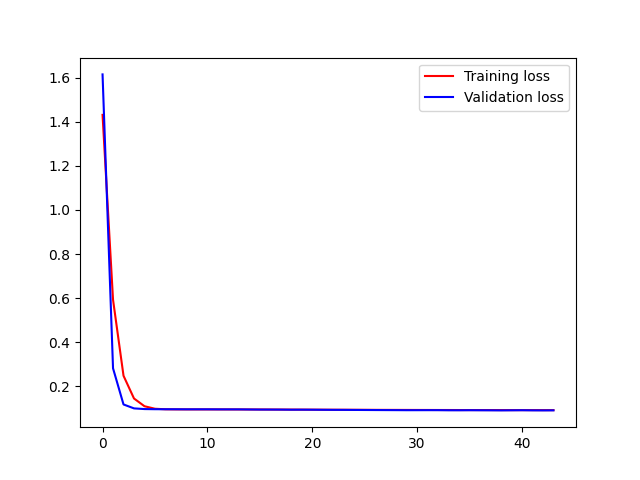
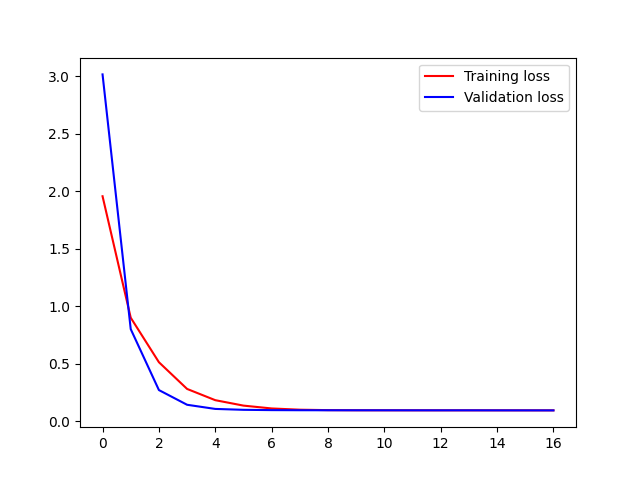
Compare model fixed

diff --git a/src/main.py b/src/main.py
@@ -40,7 +40,7 @@ import numpy as np
 
 
 # Variables GLOBALES PARA ENTRENAR EL AUTOENCODER
-LEARNINGRATE = 0.003
+LEARNINGRATE = 0.0019
 BATCHSIZE = 32
 DROPOUTVALUE = 0.2
 EPOCHS = 50
@@ -70,11 +70,9 @@ def one_hot(array, num_classes):
          size_layers_used debe ser el mismo.  
     Post: Devuelve un autoencoder entrenado mediante fine tuning
 """
-def train_autoencoder(x_train, y_train, 
-                     learning_rate, batch_size, 
-                     epochs, dropout,
-                     size_layers_used, latent_space,
-                     activation_func,
+def train_autoencoder(x_train, y_train, learning_rate, 
+                      batch_size, epochs, dropout,
+                     size_layers_used, latent_space, activation_func,
                      verbose, verbose_mode, number_classes, autoencoder_model):
     # Creamos el autoencoder
     autoencoder = Autoencoder(
@@ -111,66 +109,46 @@ def train_autoencoder(x_train, y_train,
         autoencoder.obtain_history("fine_tuning")
 
     return autoencoder
-
-def compare_autoencoders(x_train, x_eval, y_train, y_eval,
-                             learning_rate, batch_size, 
-                             epochs, dropout_value,
-                             size_layers_used, latent_space,
-                             activation_func, 
-                             verbose,number_classes):
-    ae_metrics = [0,0,0,0]
-    nn_metrics = [0,0,0,0]
-    while np.mean(ae_metrics) < 0.75 or np.mean(nn_metrics) < 0.75:
-        autoencoder_entire = train_autoencoder(x_train, y_train, 
-                                    learning_rate, batch_size, 
-                                    epochs, dropout_value, 
-                                    size_layers_used, latent_space, 
-                                    activation_func, verbose, 0, number_classes, True)
-        
-        autoencoder_NN = train_autoencoder(x_train, y_train, 
-                                    learning_rate, batch_size, 
-                                    epochs, dropout_value, 
-                                    size_layers_used, latent_space, 
-                                    activation_func, verbose, 0, number_classes, False)
-        ae_metrics = get_metrics(autoencoder_entire.predict_fine_tuning(x_eval, 0), y_eval)
-        nn_metrics =  get_metrics(autoencoder_NN.predict_fine_tuning(x_eval, 0), y_eval)
-        print(ae_metrics)
-        print(nn_metrics)
     
-
-
-
 """
     Pre: x_train contiene las variables de cada observacion, y_train contiene la clase a la que
          pertenece cada observacion.
     Post: Muestra por pantala la distribucion de valores de train y test y la exactitud
           de cada uno de los folds y la exactitud del algoritmo Cross Validation
 """
-def kFold_cross_validation_autoencoder(x_train, y_train, lr, 
+def kFold_cross_validation_DLmodel(x_train, y_train, lr, 
                                     batch_size, epochs, dropout_value,
                                     size_layers_used, latent_space,
-                                    encoder_func, decoder_func):
+                                    activation_func, number_classes, autoencoder_model):
     strtfdKFold = StratifiedKFold(n_splits=10)
     kfold = strtfdKFold.split(x_train, y_train)
-    scores = [] 
+    accuracys = []
+    precisions = []
+    recalls = []
+    F1scores = []  
     for k, (train, test) in enumerate(kfold):
         autoencoder = train_autoencoder(x_train[train], y_train[train], lr, 
                                        batch_size, epochs, dropout_value, 
                                        size_layers_used, latent_space,
-                                       encoder_func, decoder_func, False, 0, False)
+                                       activation_func, False, 0, number_classes, autoencoder_model)
         
-        y_pred = autoencoder.predict_fine_tuning(x_train[test], 0)
+        metrics = get_metrics(autoencoder.predict_fine_tuning(x_train[test], 0), y_train[test])
 
-        score = f1_score(y_train[test], y_pred, average = "macro")
-        scores.append(score)
+        accuracys.append(metrics[0])
+        precisions.append(metrics[1])
+        recalls.append(metrics[2])
+        F1scores.append(metrics[3])
 
-        print('Fold: %2d, Training/Test Split Distribution: %s - %s, F1Score: %.3f' % (k+1, 
-                                                                                        np.shape(y_train[train])[0],
-                                                                                        np.shape(y_train[test])[0],
-                                                                                        score), flush=True)
-        
-    print('\n\nCross-Validation F1Score: %.3f +/- %.3f' %(np.mean(scores), np.std(scores)), flush=True)
-    return(np.mean(scores))
+        print('Fold: %2d, Training/Test Split Distribution: %s - %s, Accuracy: %.3f, Precision: %.3f, Recall: %.3f, F1Score: %.3f' % (k+1, 
+                                                                                        np.shape(y_train[train])[0], np.shape(y_train[test])[0],
+                                                                                        metrics[0], metrics[1], metrics[2], metrics[3]), flush=True)
+    model_name = "Autoencoder" if autoencoder_model else "Neural Network"
+
+    print("Result obtained using " + model_name + " model:")
+    print('Cross-Validation accuracy: %.3f +/- %.3f' %(np.mean(accuracys), np.std(accuracys)))
+    print('Cross-Validation precision: %.3f +/- %.3f' %(np.mean(precisions), np.std(precisions)))
+    print('Cross-Validation recall: %.3f +/- %.3f' %(np.mean(recalls), np.std(recalls)))
+    print('Cross-Validation meanF1: %.3f +/- %.3f\n ' %(np.mean(F1scores), np.std(F1scores)))
 
 
 def kFold_cross_validation_shallow(model, x_values, y_values, model_name):
@@ -223,7 +201,7 @@ def hyper_parameters_autoencoder(x_train, y_train, size_layers, latent_space, en
                                                                           learningrate[i], learningrate_fine_tuning[i], 
                                                                           batch_size[j], epochs[l], dropout_values[k],
                                                                           size_layers, latent_space,
-                                                                          encoder_act_func, decoder_act_func)
+                                                                          encoder_act_func, decoder_act_func, false)
                     if current_precision > best_precision:
                         best_hyper_parameters[0] = learningrate[i]
                         best_hyper_parameters[1] = learningrate_fine_tuning[i]
@@ -243,8 +221,8 @@ def hyper_parameters_autoencoder(x_train, y_train, size_layers, latent_space, en
 def create_autoencoder_hyper_par(dropout_value):
     autoencoder = Autoencoder(
         input_shape = 751,
-        layer_sizes = [500,250,125,75],
-        latent_space = 50,
+        layer_sizes = [600,300,200],
+        latent_space = 150,
         drop_out_value = dropout_value,
         activation_func = "relu",
     )
@@ -261,7 +239,7 @@ def create_autoencoder_hyper_par(dropout_value):
 def hyper_parameters_optimization(x_train):
 
 
-    callback =  keras.callbacks.EarlyStopping(monitor = "loss", mode = "min", verbose = 1, patience = 5, min_delta = 0.001)
+    callback =  keras.callbacks.EarlyStopping(monitor = "loss", mode = "min", verbose = 1, patience = 10, min_delta = 0.01)
 
     kfold = KFold(n_splits = 10, random_state = 42, shuffle = True)
 
@@ -272,7 +250,7 @@ def hyper_parameters_optimization(x_train):
     }
 
 
-    autoencoder_model = KerasRegressor(create_autoencoder_hyper_par, loss = "mean_squared_error", optimizer = "adam", epochs = 50, callbacks = [callback], verbose = 0, random_state = 42)
+    autoencoder_model = KerasRegressor(create_autoencoder_hyper_par, loss = "mean_absolute_error", optimizer = "adam", epochs = 50, callbacks = [callback], verbose = 0, random_state = 42)
     
     opt = BayesSearchCV(
         estimator = autoencoder_model,
@@ -302,10 +280,10 @@ def get_metrics(y_test, y_pred):
     return clasifier_metrics
 
 def show_metrics(metrics):
-    print("Accuracy: " + str(metrics[0]))
-    print("Precision: " + str(metrics[1]))
-    print("Recall: " + str(metrics[2]))
-    print("F1 Score: " + str(metrics[3]))
+    print("Accuracy: " + str(round(metrics[0],3)))
+    print("Precision: " + str(round(metrics[1],3)))
+    print("Recall: " + str(round(metrics[2],3)))
+    print("F1 Score: " + str(round(metrics[3],3)))
 """
     Pre: x_train e x_test contiene las variables de cada observacion, y_train e y_test contiene la clase a la que
          pertenece cada observacion.
@@ -601,14 +579,21 @@ def evaluate_AE_with_shallow(x_train, x_eval, y_train, y_eval,
                              epochs, dropout_value,
                              size_layers_used, latent_space,
                              activation_func, verbose, number_classes):
-    
-    autoencoder = train_autoencoder(x_train, y_train, 
-                                   learning_rate, batch_size, 
-                                   epochs, dropout_value, 
-                                   size_layers_used, latent_space, 
-                                   activation_func, verbose, 2, number_classes, True)
+    f1_score = 0
+    while f1_score < 0.8:
 
-    #MAUC values
+        autoencoder = train_autoencoder(x_train, y_train, 
+                                    learning_rate, batch_size, 
+                                    epochs, dropout_value, 
+                                    size_layers_used, latent_space, 
+                                    activation_func, verbose, 0, number_classes, True)
+
+        print("AUTOENCODER MODEL METRICS ")
+        ae_metrics = get_metrics(autoencoder.predict_fine_tuning(x_eval, 0), y_eval)
+        f1_score = ae_metrics[3]
+        show_metrics(ae_metrics)
+
+
     # Devolvemos los datos reducidos mediante el autoencoder
     reduced_train = autoencoder.return_reduce_attribute(x_train)
     reduced_eval = autoencoder.return_reduce_attribute(x_eval)
@@ -697,8 +682,8 @@ def main(argv):
         
         text = "CN/MCI/AD problem"
 
-        sizeLayersUsed = [500,250,125,75]
-        latent_space = 50
+        layer_sizes = [600,300,200]
+        latent_space = 150
 
         number_classes = 3
         execution_mode = 0
@@ -715,21 +700,27 @@ def main(argv):
                 execution_mode = 3
         
         if execution_mode == 1:
-            hyper_parameters_autoencoder(xTrain, yTrain, sizeLayersUsed, latent_space, "relu", "relu")
+            hyper_parameters_autoencoder(xTrain, yTrain, layer_sizes, latent_space, "relu", "relu")
         elif execution_mode == 2:
-            compare_autoencoders(xTrain, xEval, yTrain, yEval,
+            kFold_cross_validation_DLmodel(xTrain, yTrain,
                            LEARNINGRATE, BATCHSIZE, 
                            EPOCHS, DROPOUTVALUE,
-                           sizeLayersUsed,  latent_space, 
-                           "relu", False, number_classes)
+                           layer_sizes,  latent_space, 
+                           "relu", number_classes,  True)
+            
+            kFold_cross_validation_DLmodel(xTrain, yTrain,
+                           LEARNINGRATE, BATCHSIZE, 
+                           EPOCHS, DROPOUTVALUE,
+                           layer_sizes,  latent_space, 
+                           "relu", number_classes, False)
         elif execution_mode == 3:
             hyper_parameters_optimization(xTrain)
         else:
             evaluate_AE_with_shallow(xTrain, xEval, yTrain, yEval,
                            LEARNINGRATE, BATCHSIZE, 
                            EPOCHS, DROPOUTVALUE,
-                           sizeLayersUsed,  latent_space, 
-                           "relu", 1, number_classes)
+                           layer_sizes,  latent_space, 
+                           "relu", False, number_classes)
 
     else:
         usageCommand()

diff --git a/src/aeClass.py b/src/aeClass.py
@@ -302,11 +302,11 @@ class Autoencoder:
     def train(self, x_train, batch_size, num_epochs, verbose_mode):
         
         train_X, valid_X, train_ground, valid_ground = train_test_split(x_train, x_train, 
-                                                                        test_size = 0.33,
+                                                                        test_size = 0.3,
                                                                         shuffle = True, 
                                                                         random_state = 42)
 
-        callback =  tensorflow.keras.callbacks.EarlyStopping(monitor = "val_loss", mode = "min", verbose = 1, patience = 10, min_delta = 0.001)
+        callback =  tensorflow.keras.callbacks.EarlyStopping(monitor = "val_loss", mode = "min", verbose = 1, patience = 10, min_delta = 0.01)
 
         
         
@@ -329,7 +329,7 @@ class Autoencoder:
     def train_fine_tuning(self, x_train, y_train, batch_size, num_epochs, verbose_mode):
 
         train_X, valid_X, train_label, valid_label = train_test_split(x_train, y_train, 
-                                                                      test_size = 0.33,
+                                                                      test_size = 0.3,
                                                                       shuffle = True, 
                                                                       random_state = 42,
                                                                       stratify=y_train)
